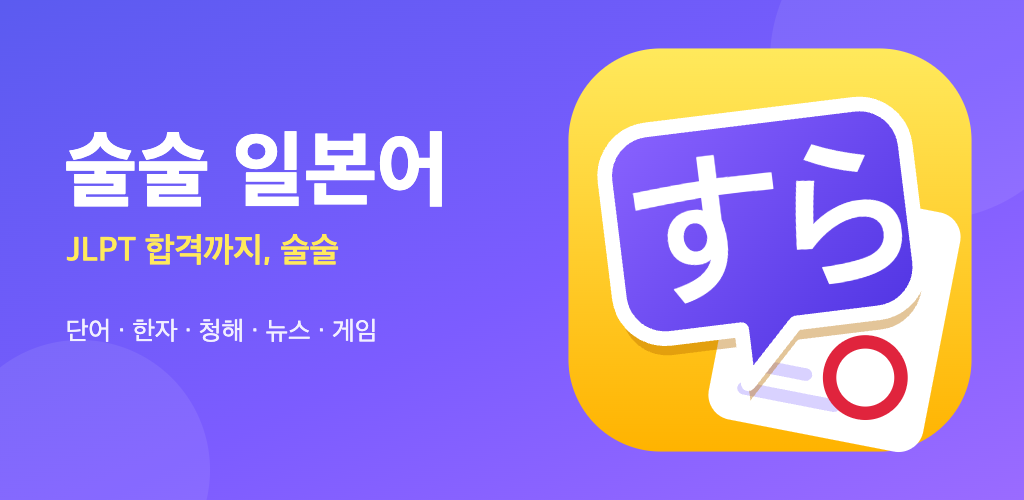
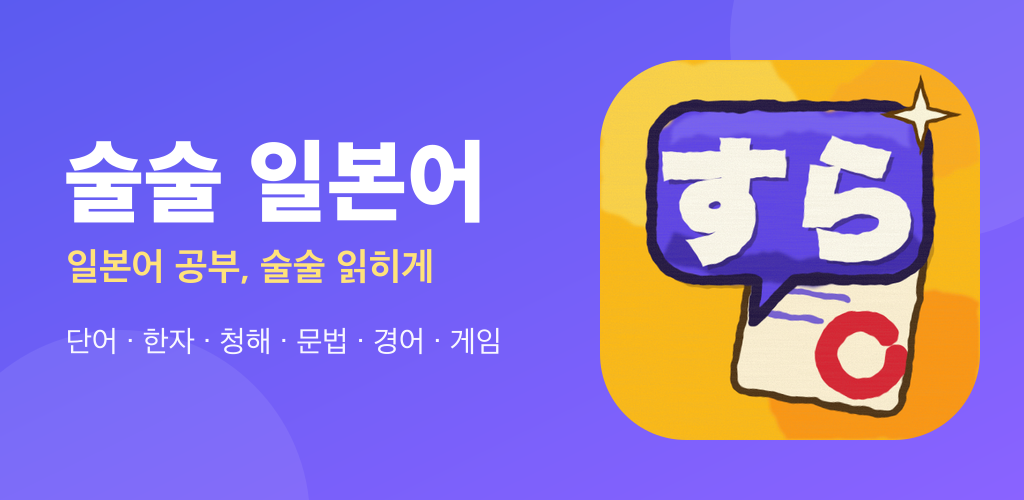
플레이 출시 준비: 플레이 앱 안 웹결제 숨김, 소개글·그래픽·스크린샷, 출시 체크리스트, 개인정보·약관 보강

diff --git a/billing.js b/billing.js
@@ -17,7 +17,9 @@ let busy=false, sdkP=null;
 const A=()=>window.APP;
 const won=n=>n.toLocaleString("ko-KR")+"원";
 const signedIn=()=>{ try{ const c=A().cloud, p=A().curProfile(); return !!(c&&c.ok&&p&&p.cloud&&c.auth.currentUser&&c.auth.currentUser.uid===p.cloud); }catch(e){ return false; } };
-const ready=()=>CFG.on&&!!CFG.clientKey;
+/* 구글 플레이 앱(TWA)으로 열었을 때는 웹 결제를 보여 주지 않아요 (플레이 정책: 앱 안 디지털 상품은 구글 결제만). TWA는 처음 열릴 때 referrer가 android-app:// 로 시작해요 */
+const inPlayApp=()=>{ try{ if(document.referrer&&document.referrer.indexOf("android-app://")===0) sessionStorage.setItem("jp-twa","1"); return sessionStorage.getItem("jp-twa")==="1"; }catch(e){ return false; } };
+const ready=()=>CFG.on&&!!CFG.clientKey&&!inPlayApp();
 const ic=px=>window.PATH&&PATH.seedIc?PATH.seedIc(px):"";
 function loadSdk(){ return sdkP||(sdkP=new Promise((res,rej)=>{ if(window.TossPayments) return res(); const s=document.createElement("script"); s.src=SDK; s.onload=res; s.onerror=()=>{ sdkP=null; rej(new Error("sdk")); }; document.head.appendChild(s); })); }
 /* 서버 함수 호출 (callable 규약: POST {data} + 로그인 토큰) */
@@ -30,6 +32,7 @@ async function call(name,data){
 }
 /* 상점 화면에 끼워 넣는 조각 — 꺼져 있고 soon도 꺼져 있으면 빈 문자열 */
 function html(){
+  if(inPlayApp()) return "";
   if(!ready()){
     if(!CFG.soon) return "";
     return `<div class="seedpay soon"><b>씨앗 사기</b><div class="seedpacks">${CFG.packs.map(p=>`<button type="button" class="pill" disabled>${ic(24)}<b style="display:block">${p.seeds}개</b><small style="display:block;font-size:11px;font-weight:600">준비 중</small>${p.tag?`<em class="seedtag">${p.tag}</em>`:""}</button>`).join("")}</div><small>씨앗 구매는 준비 중이에요. 곧 만나요! 지금은 공부하면서 모을 수 있어요.</small></div>`;
@@ -80,5 +83,5 @@ function init(){
   setTimeout(()=>{ handleReturn().then(()=>{ try{ const p=JSON.parse(sessionStorage.getItem("jp-pay-pending")||"null"); if(p&&!new URLSearchParams(location.search).get("pay")) finish(p); }catch(e){} }); },1200);
 }
 window.SEEDPAY={CFG,html,buy,ready,init};
-window.addEventListener("load",init);
+window.addEventListener("load",()=>{ inPlayApp(); init(); });
 })();

diff --git a/privacy.html b/privacy.html
@@ -37,6 +37,7 @@ a{color:#4646e0}table{border-collapse:collapse;width:100%;font-size:15px}td,th{b
 <li><b>앱 안에서 삭제:</b> 앱 위쪽의 프로필 → "내 계정" → <b>계정 삭제</b>를 누르고 비밀번호를 입력하면, 이메일 계정과 클라우드의 학습 기록, 친구 코드가 삭제돼요.</li>
 <li><b>앱을 쓸 수 없을 때:</b> 아래 문의 방법으로 가입한 이메일과 함께 삭제를 요청하면 확인 후 삭제해요.</li>
 </ul>
+<p>씨앗 구매 기록(주문번호·상품·금액·결제 일시)은 전자상거래법에 따라 5년간 보관해야 해서, 계정을 삭제해도 그 기간 동안은 이름 등 개인정보와 분리해 거래 기록만 남을 수 있어요.</p>
 <p>다른 친구에게 이미 보낸 응원이나 대화는 상대방 화면에 남아 있을 수 있어요. 게스트로 쓴 기록은 기기에만 있어서 앱을 지우거나 브라우저 데이터를 지우면 사라져요.</p>
 
 <h2>5. 어린이</h2>

diff --git a/terms.html b/terms.html
@@ -13,6 +13,8 @@ a{color:#4646e0}table{border-collapse:collapse;width:100%;font-size:15px}td,th{b
 <p class="d">すらすら日本語(술술 일본어) · 시행일: (공개 전에 입력)</p>
 <p class="todo">※ 이 문서는 초안이에요. 사업자 정보를 채우고, 결제를 열기 전에 내용을 꼭 확인해 주세요. 법률 검토를 받은 문서가 아니에요.</p>
 
+<p>술술 일본어는 JLPT(일본어능력시험) 공부를 돕는 비공식 학습 앱이에요. 시험 주최 기관과는 관련이 없어요.</p>
+
 <h2>1. 판매자 정보</h2>
 <table>
 <tr><th>상호</th><td>(입력 필요)</td></tr>

diff --git a/store/플레이_출시_체크리스트.md b/store/플레이_출시_체크리스트.md
@@ -1,0 +1,92 @@
+# 구글 플레이 출시 체크리스트 (술술 일본어)
+
+★ = 직접 하셔야 하는 일 / 🤖 = 제가 이미 해 둔 일 / ⚠ = 먼저 알아 두실 점
+예상 기간: **개인 계정이면 최소 3주 이상** (비공개 테스트 14일이 필수라서요).
+
+---
+
+## 0. 먼저 알아 두실 점
+- ⚠ **새 개인 개발자 계정(2023년 11월 13일 이후 만든 계정)은 정식 출시 전에 "비공개 테스트"를 해야 해요.** 테스터 **12명 이상**이 **14일 연속** 테스트에 참여(옵트인)해야 정식 출시를 신청할 수 있어요. (구글 도움말 기준. 정책은 바뀔 수 있으니 콘솔 안내를 확인하세요.) 교육 현장 사람들과 친구들에게 부탁해 두면 좋아요.
+- ⚠ **플레이 앱 안에서는 씨앗 구매(웹 결제)를 숨겼어요.** 구글 정책상 앱 안의 디지털 상품 결제는 구글 결제만 쓸 수 있어서, 웹 결제를 앱 안에서 보여 주면 정책 위반이 될 수 있어요. 지금은 플레이 앱에서 상점의 "씨앗 사기" 구역이 안 보여요(웹/홈 화면 추가 버전에서만 나올 예정). 나중에 플레이 앱에서도 팔고 싶으면 구글 결제를 붙여야 해요.
+- ⚠ **Edge 음성(단어·글자·청해·뉴스)은 마이크로소프트가 공식으로 허용한 방식이 아니에요.** 플레이 출시 때 걸리지는 않지만, 공개 배포는 약관 위반일 수 있어요. 출시 전에 정식 음성 서비스(Azure 등)나 VOICEVOX 같은 이용 규약이 분명한 음성으로 바꿀지 결정해 주세요.
+- ⚠ 개인 계정이어도 스토어에 **개발자 연락처(이메일 등)가 공개**될 수 있어요. 별도 이메일(surasura.support@gmail.com)을 쓰고 있어서 괜찮아요.
+
+---
+
+## 1. 개발자 계정 만들기 ★
+1. 구글 계정에 **2단계 인증**을 켜요. (전에 여기서 막혔다고 하셨어요.)
+2. https://play.google.com/console 접속 → 개발자 계정 만들기. 등록비 **25달러**(1회, 카드 필요).
+3. 계정 유형: **개인**으로 가는 게 가장 쉬워요. (조직은 사업자 확인·D-U-N-S 번호가 필요해요.)
+4. 본인 확인: 신분증, 주소, 전화번호 인증. 승인까지 며칠 걸릴 수 있어요.
+- 무료 앱이고 구글 결제를 쓰지 않으므로 **결제 프로필(판매자 계정)은 필요 없어요.**
+
+## 2. 앱 만들기 ★
+- Play Console → 앱 만들기: 이름 `술술 일본어 - 단어·한자·문법·청해`, 언어 한국어, **앱**, **무료**.
+- 🤖 소개 글은 `store/등록정보_초안.md`에 있어요. 복사해서 붙여 넣으면 돼요. (제목에 JLPT를 뺀 이유: JLPT는 시험 주최 측의 이름이라 앱 제목에 쓰면 상표 문제가 될 수 있어서, 설명 글에서만 "비공식 학습 앱"이라는 문구와 함께 썼어요.)
+
+## 3. 앱 설치 파일(AAB) 올리기 ★
+- 🤖 파일: `store/apk/surasura-nihongo-v1.0.1.aab` (새 수채화 아이콘, 같은 서명 키로 만들었어요).
+- 콘솔 → 테스트 → **비공개 테스트** → 새 출시 만들기 → AAB 업로드.
+- 처음 올릴 때 **"Play 앱 서명"**을 켜라고 해요(권장, 켜세요). 그러면 구글이 실제 서명 키를 따로 관리해요.
+- ⚠ **서명 키 파일은 꼭 백업하세요:** `store/apk/out/signing.keystore`와 `signing-key-info.txt`(비밀번호 들어 있음). 업로드 키라서 잃어버리면 업데이트가 어려워져요. USB나 개인 클라우드에 따로 보관하세요. 남에게 보내지 마세요.
+
+## 4. 주소창 없애기 (assetlinks 추가) ★ + 🤖
+- Play 앱 서명을 켜면 콘솔 → 설정 → **앱 무결성**(또는 앱 서명)에 **"앱 서명 키 인증서 SHA-256 지문"**이 나와요.
+- 그 지문을 알려 주세요. 제가 `.well-known/assetlinks.json`에 추가해서 배포해 드릴게요. 이걸 안 하면 설치한 앱 위에 크롬 주소창이 보여요.
+- (현재 파일에는 업로드 키 지문이 들어 있어요.)
+
+## 5. 스토어 등록 정보 ★
+- 🤖 앱 아이콘 512×512: `icon-512.png`
+- 🤖 그래픽 이미지 1024×500: `store/feature-graphic.png` (새 아이콘 반영)
+- 🤖 폰 스크린샷 7장(1080×1920): `store/스크린샷/` (홈, 단어장, 경어, 퀴즈, 문법, 게임, 글자 배우기). 최소 2장, 최대 8장 올릴 수 있어요. 보여 주고 싶은 순서대로 올리세요.
+- 🤖 간단한 설명(80자)·자세한 설명·연락처: `store/등록정보_초안.md`
+- 카테고리: 교육. 태그는 콘솔에서 고르세요.
+
+## 6. 앱 콘텐츠 설문 ★ (콘솔 → 정책 → 앱 콘텐츠)
+`store/등록정보_초안.md`의 "앱 콘텐츠 설문"을 참고하세요. 핵심 답변:
+- **개인정보처리방침 주소:** https://surasura-nihongo.web.app/privacy.html
+- **광고:** 아니요
+- **앱 액세스:** 로그인 없이 대부분 이용 가능(게스트). 로그인 기능 심사용으로 **테스트 계정(이메일·비밀번호)**을 하나 만들어 설명란에 적으세요. (이메일 인증이 필요한 계정이라 인증을 미리 마친 계정이어야 해요.)
+- **콘텐츠 등급 설문:** 사용자끼리 대화하는 기능(친구 채팅)이 있다고 답해야 해요. 폭력·성적 내용 없음.
+- **대상 연령:** 13세 이상 권장(어린이 대상 앱 아님). 개인정보처리방침에 만 14세 미만 가입 안내가 있어요.
+- **데이터 보안 양식:** 수집 항목 = 이메일, 이름(닉네임), 앱 활동(학습 기록), 사용자 ID. 목적 = 앱 기능, 계정 관리. 제3자 공유·판매 없음. 전송 중 암호화 = 예. **사용자가 삭제를 요청할 수 있음 = 예.**
+- **계정 삭제:** 🤖 앱 안(내 계정 → 계정 삭제)과 웹(privacy.html 4번) 모두 있어요. 구글은 둘 다를 요구하고, 웹 주소는 위 개인정보처리방침 주소를 쓰면 돼요.
+- **금융 기능·건강·정부 앱·뉴스 앱:** 모두 해당 없음. (뉴스 읽기는 학습용 글이라 "뉴스 앱"이 아니라고 답하세요.)
+
+## 7. 정책 점검 결과 🤖
+| 항목 | 상태 |
+|---|---|
+| 계정 삭제 기능(앱 안·웹) | 있음 |
+| 사용자 신고 기능(닉네임·대화) | 있음 |
+| 앱 권한(위치·연락처·카메라·마이크) | 요청 안 함 |
+| 앱 안 결제 | 플레이 앱 안에서는 숨김 |
+| 광고 | 없음 |
+| 오픈소스 표기(KanjiVG, Noto Emoji) | 앱·개인정보처리방침에 표기됨 |
+| 뉴스 출처 표기 | 있음 (일본 정부 공개 자료 이용 규약 안내) |
+| JLPT 비공식 고지 | 소개 글·이용약관에 있음 |
+- ⚠ 확인 필요: 앱 안 대화 기능은 "사용자 생성 콘텐츠" 정책 대상이에요. 신고는 있지만, **차단 기능**은 따로 없어요(친구 삭제는 있음). 심사에서 요구하면 추가해야 할 수 있어요.
+
+## 8. 비공개 테스트 운영 ★
+1. 콘솔 → 비공개 테스트 → 테스터 목록 만들기: 테스터 **12명 이상**의 구글 계정 이메일을 추가하거나 구글 그룹을 연결.
+2. 콘솔이 주는 **참여 링크**를 테스터에게 보내요. 테스터가 링크로 들어가 **"테스터 되기"를 눌러야** 해요. 그다음 플레이스토어에서 앱을 설치해요.
+3. **14일 동안 계속 참여 상태**여야 해요(중간에 빠지면 다시 계산). 여유 있게 14~16명을 모으세요.
+4. 테스터에게 가끔 앱을 써 보고, 불편한 점이 있으면 알려 달라고 부탁하세요.
+
+## 9. 정식 출시 신청 ★
+- 14일이 지나면 콘솔 → 대시보드 → **프로덕션 액세스 신청**. 테스트 중 받은 의견과 수정한 내용을 묻는 질문에 답해요.
+- 심사는 며칠~1주 정도 걸려요. 통과하면 프로덕션 트랙에 올려 출시해요. 처음에는 **단계적 출시(일부 사용자 먼저)**를 선택해도 좋아요.
+
+## 10. 출시 후
+- 앱 내용(단어·문법·화면)은 **사이트를 배포하면 바로 반영**돼요. 설치 파일은 다시 올릴 필요가 없어요.
+- 설치 파일(AAB)은 아이콘·이름·버전이 바뀔 때만 다시 만들어 올려요. (제가 만들어 드려요. 버전 번호를 올려야 해요.)
+- 씨앗 구매는 웹 결제만 열렸을 때 웹/홈 화면 추가 버전에서만 나와요. 플레이 앱에도 열려면 구글 결제를 따로 붙여야 해요.
+
+---
+
+## 지금 바로 하실 일 (순서)
+1. ★ 구글 계정 2단계 인증 켜기 → 개발자 계정 가입(25달러) → 본인 확인
+2. ★ 테스터 12명 이상 모을 준비 (교육 현장·친구)
+3. ★ `signing.keystore`와 `signing-key-info.txt` 백업
+4. ★ 앱 만들기 → AAB 올리기 → Play 앱 서명 켜기 → 지문 알려 주기(제가 assetlinks에 넣어요)
+5. ★ 스토어 등록 정보·앱 콘텐츠 설문 입력
+6. ★ 비공개 테스트 시작 → 14일 뒤 프로덕션 신청
